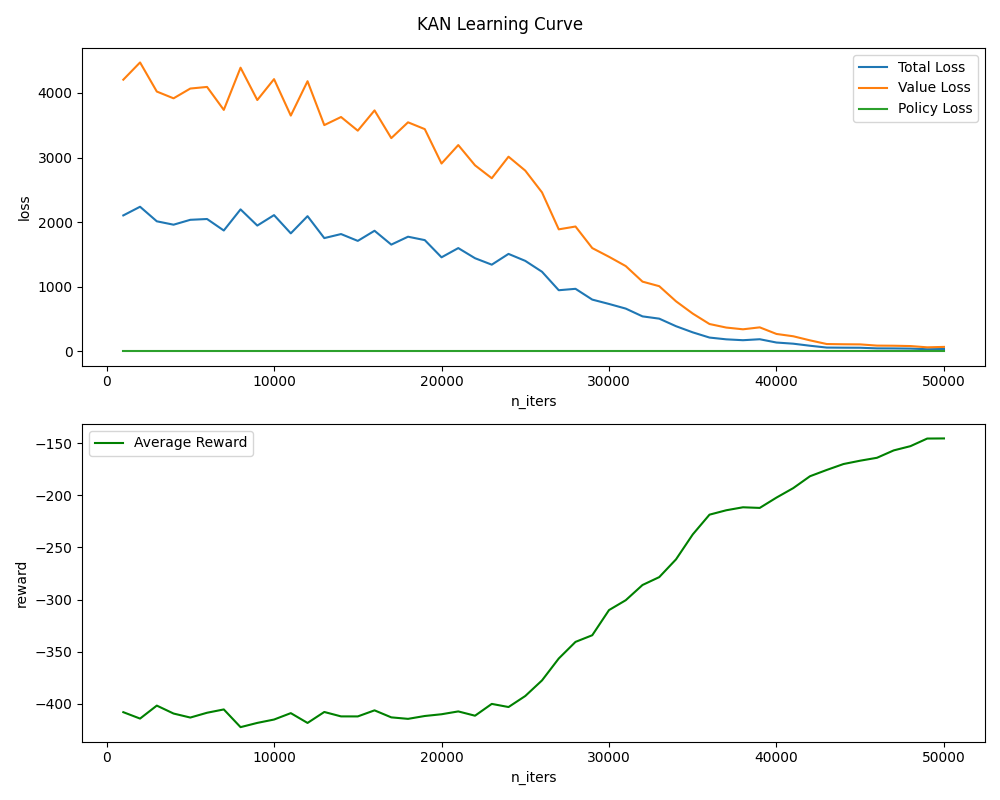
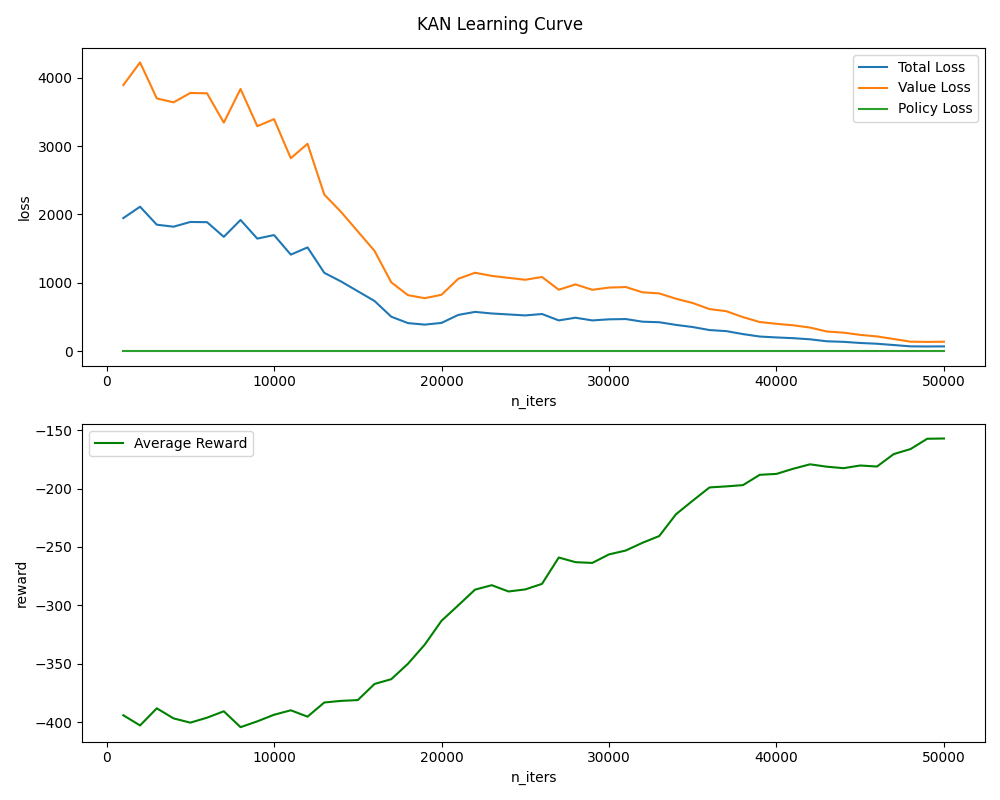
kan critic

diff --git a/model.py b/model.py
@@ -179,14 +179,14 @@ class KANGaussian(nn.Module):
         entropy = (torch.log(std) + 0.5 * (1 + torch.log(torch.tensor(2*torch.pi))))
         return logprob.sum(dim=-1), entropy.sum(dim=-1)
 
-# class KANCritic(nn.Module):
-#   def __init__(self, obs_dim, hidden_sizes, grid_size=5, spline_order=3, seed=42):
-#     super(KANCritic, self).__init__()
-#     layers = [obs_dim] + list(hidden_sizes) + [1]
-#     self.kan = KAN(layers, grid_size=grid_size, spline_order=spline_order)
+class KANCritic(nn.Module):
+  def __init__(self, obs_dim, hidden_sizes, grid_size=5, spline_order=3, seed=42):
+    super(KANCritic, self).__init__()
+    layers = [obs_dim] + list(hidden_sizes) + [1]
+    self.kan = KAN(layers, grid_size=grid_size, spline_order=spline_order)
 
-#   def forward(self, x: torch.Tensor):
-#     return self.kan(x)
+  def forward(self, x: torch.Tensor):
+    return self.kan(x)
 
 class KANBeta(nn.Module):
     '''Beta distribution for bounded continuous control using KAN architecture, output between 0 and 1'''
@@ -238,7 +238,7 @@ class KANActorCritic(nn.Module):
       self.actor = model_class(obs_dim, hidden_sizes["pi"], act_dim, act_bound=act_bound)
     else:
       self.actor = model_class(obs_dim, hidden_sizes["pi"], act_dim)
-    self.critic = MLPCritic(obs_dim, hidden_sizes["vf"])
+    self.critic = KANCritic(obs_dim, hidden_sizes["vf"])
 
   def forward(self, x: torch.Tensor):
     actor_out = self.actor(x)
